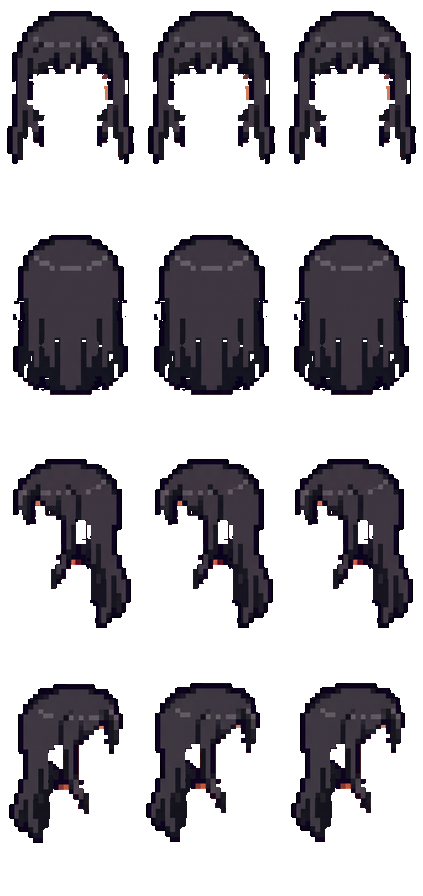
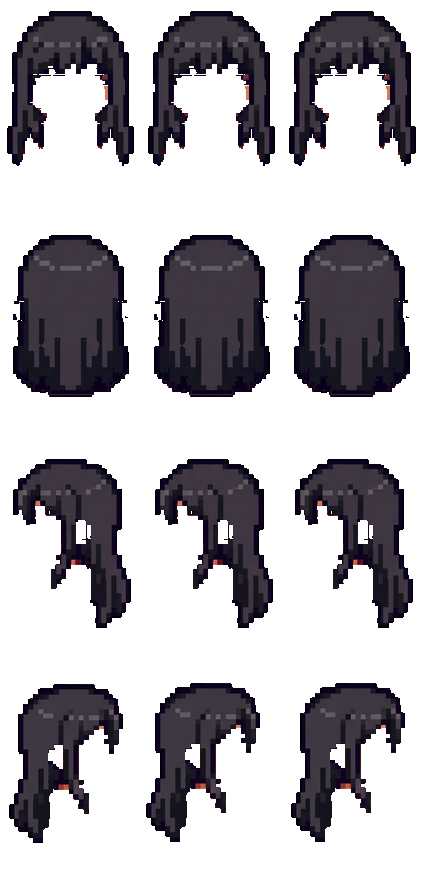
fix(char): 긴 생머리 정면 앞머리 / 후면 하단 - 원본에서 3673px 복원 (sw v268)
대표: "정면 앞머리가 쥐 파먹은 것 같고, 뒷머리 하단부가 검게 그을려 있다. 앞뒤만 고쳐달라."

진단 (char/diag_long_hair.py):
- 두 결함 다 원인은 같다 = **원본에 있던 머리카락의 누락**. 색 문제가 아니다.
  정면 4046px / 후면 2485px 가 원본 대비 빠져 있었다.
- "그을림"의 정체 = 후면 하단(rel y120~160)에서 밝은 머리카락이 빠지고 어두운 외곽선만
  남아 밝기가 35.5 -> 31.3 으로 내려갔다. 색을 밝히는 게 아니라 빠진 걸 되찾아야 한다.

★지표를 한 번 잘못 재고 고쳤다: 원본 시트의 알파는 '캐릭터 전체'(몸·옷 포함)라
  그대로 비교하면 20758px 로 뻥튀기된다. **머리색 밝기 상한을 우리 레이어의 색 분포에서
  유도해서**(99퍼센타일+10 = 107) 머리카락만 골라야 비교가 성립한다.
  이 방식을 restore_from_source.py 에 넣었다 — is_skin 만 빼던 기존 방식은 옷을 딸려온다.

조치: 정면·후면만 복원(--rows 0,1). 좌·우는 대표가 이미 손봐서 건드리지 않았다.
  정면 1902px + 후면 1771px 되찾음. 얼굴·귀(base 영역지도 KEEP)는 그대로 보호.
  후면 3열이 어긋나(16029/16050/16141) replicate_cols 로 통일.
  내부 구멍 4방향 전부 0. 썸네일 재생성.

diff --git a/index.html b/index.html
@@ -1,5 +1,5 @@
 <!DOCTYPE html>
-<!-- cache-bust: v20260731005 -->
+<!-- cache-bust: v20260731006 -->
 <html lang="ko">
 <head>
 <meta charset="UTF-8">
@@ -2041,7 +2041,7 @@ window.CHAR_ITEMS = [
   { id: 'shoes_black', slot: 'shoes', body: 'human', name: '검정 러닝화', price: 0, sheet: 'char/items/shoes_black.png', thumb: 'char/items/shoes_black_thumb.png' }
 ];
 // 아이템 이미지 캐시버전 — 아이템 시트/썸네일 바꿀 때마다 올리면 SW 캐시 무시하고 새로 받음
-window._ITEM_V = 84;
+window._ITEM_V = 85;
 window._iv = function (u) { return u ? (u + (u.indexOf('?') < 0 ? '?v=' : '&v=') + (window._ITEM_V || 1)) : u; };
 window.CHAR_FREE = ['hair_short', 'top_tee', 'mask_simple'];
 window.CHAR_SHAPES = {

diff --git a/sw.js b/sw.js
@@ -1,7 +1,7 @@
 // 배포마다 이 버전을 올려야 자동 새버전 적용(새로고침)이 동작함
-const CACHE_NAME = 'murpy-v267';
-const STATIC_CACHE = 'murpy-static-v267';
-const CDN_CACHE = 'murpy-cdn-v267';
+const CACHE_NAME = 'murpy-v268';
+const STATIC_CACHE = 'murpy-static-v268';
+const CDN_CACHE = 'murpy-cdn-v268';
 // 이미지 캐시는 버전 안 붙임 → 코드/HTML 배포해도 유지(URL이 곧 버전)
 const IMG_CACHE = 'murpy-img';
 

diff --git a/char/diag_long_hair.py b/char/diag_long_hair.py
@@ -1,0 +1,86 @@
+# -*- coding: utf-8 -*-
+"""긴 생머리 정면 앞머리 / 후면 하단 '그을림'의 정체를 잰다.
+
+대표: "정면 앞머리쪽이 쥐 파먹은 것 같고, 뒷머리 하단부가 검게 그을려 있다."
+
+두 결함은 성격이 다를 수 있다:
+  - 앞머리  = 원본에 있는 머리카락이 **빠진 것**(알파 누락)
+  - 그을림  = 알파는 맞는데 **색이 어두워진 것**(RGB 차이)
+어느 쪽인지 갈라야 고치는 방법이 정해진다.
+
+    python char/diag_long_hair.py
+"""
+import os
+import sys
+
+import numpy as np
+from PIL import Image
+
+sys.path.insert(0, os.path.dirname(os.path.abspath(__file__)))
+from build_hair_layer import (BALD_F, NUKKI, CW, CH, ALPHA_BIN,   # noqa: E402
+                              Norm, load, pad_img, binarize)
+
+HERE = os.path.dirname(os.path.abspath(__file__))
+NAME = "hair_f_long.png"
+SRC = os.path.join(NUKKI, "여자 검정생머리_clean-Photoroom.png")
+
+
+def main():
+    walk = np.asarray(Image.open(os.path.join(HERE, "walk_female.png"))
+                      .convert("RGBA")).astype(int)
+    cur = np.asarray(Image.open(os.path.join(HERE, "items", NAME)).convert("RGBA")).astype(int)
+    norm = Norm(load(BALD_F))
+    src_pad = pad_img(load(SRC))
+
+    # ★원본 알파는 '캐릭터 전체'(몸·옷 포함)다. 머리카락만 골라야 비교가 성립한다.
+    #   긴 생머리는 검정이므로 어두운 픽셀로 고른다. 우리 레이어의 실제 머리색 분포로 임계를 잡는다.
+    cur_all = np.asarray(Image.open(os.path.join(HERE, "items", NAME)).convert("RGBA")).astype(int)
+    hm = cur_all[:, :, 3] >= ALPHA_BIN
+    lum_hair = cur_all[hm][:, :3].mean(axis=1)
+    DARK = float(np.percentile(lum_hair, 99)) + 10
+    print(f"머리색 밝기: 중앙 {np.median(lum_hair):.0f} / 99퍼센타일 {np.percentile(lum_hair,99):.0f}"
+          f" → 원본에서 '머리카락'으로 볼 임계 = 밝기 < {DARK:.0f}")
+
+    for r, label in [(0, "정면"), (1, "후면")]:
+        worn = binarize(norm.cell(src_pad, r, 0))
+        wm = (worn[:, :, 3] >= ALPHA_BIN) & (worn[:, :, :3].mean(axis=2) < DARK)
+        hc = cur[r * CH:(r + 1) * CH, 0:CW]
+        h = hc[:, :, 3] >= ALPHA_BIN
+        bm = walk[r * CH:(r + 1) * CH, 0:CW, 3] >= ALPHA_BIN
+        top = int(np.where(bm.any(axis=1))[0].min())
+
+        print(f"\n■ {label}  원본 헤어 {int(wm.sum())}px / 현재 {int(h.sum())}px")
+        print(f"   원본에만 있음 {int((wm & ~h).sum())}px · 현재에만 있음 {int((h & ~wm).sum())}px")
+
+        both = wm & h
+        if both.any():
+            d = np.abs(worn[both][:, :3] - hc[both][:, :3]).sum(axis=1)
+            print(f"   둘 다 있는 자리 {int(both.sum())}px 의 색 차이: 평균 {d.mean():.1f}"
+                  f" · 24 초과(눈에 보임) {100.0 * (d > 24).mean():.0f}%")
+            # 우리 것이 더 어두운가?
+            lum_w = worn[both][:, :3].mean(axis=1)
+            lum_c = hc[both][:, :3].mean(axis=1)
+            print(f"   밝기: 원본 {lum_w.mean():.1f} → 현재 {lum_c.mean():.1f}"
+                  f"  (현재가 더 어두운 픽셀 {100.0 * (lum_c < lum_w - 8).mean():.0f}%)")
+
+        # 세로 구간별 — '하단부만 그을렸나' 확인
+        print("   상대y 구간별  [원본에만 |  더 어두워진 |  밝기 원본→현재]")
+        for lo, hi in [(0, 40), (40, 80), (80, 120), (120, 160), (160, 213)]:
+            band = np.zeros_like(h)
+            y0, y1 = min(top + lo, CH), min(top + hi, CH)
+            if y0 >= y1:
+                continue
+            band[y0:y1] = True
+            miss = int((wm & ~h & band).sum())
+            bb = both & band
+            if bb.any():
+                lw = worn[bb][:, :3].mean(axis=1).mean()
+                lc = hc[bb][:, :3].mean(axis=1).mean()
+                dark = int(((hc[bb][:, :3].mean(axis=1) < worn[bb][:, :3].mean(axis=1) - 8)).sum())
+                print(f"     y{lo:3d}~{hi:<3d}  {miss:5d}px  |  {dark:5d}px  |  {lw:5.1f} → {lc:5.1f}")
+            else:
+                print(f"     y{lo:3d}~{hi:<3d}  {miss:5d}px  |      - |    -")
+
+
+if __name__ == "__main__":
+    main()

diff --git a/char/diag_color_noise.py b/char/diag_color_noise.py
@@ -1,0 +1,92 @@
+# -*- coding: utf-8 -*-
+"""AI 생성 픽셀아트가 '진짜 픽셀아트'와 얼마나 다른지 색으로 잰다.
+
+대표(7-31): "AI로 만든 픽셀아트는 픽셀마다 색이 미묘하게 달라서, 에테르는 색부터
+최적화(픽셀화)해준다더라."
+
+우리 원본 시트가 실제로 그런지, 그리고 그게 우리 추출 실패와 어떻게 연결되는지 본다.
+  - 고유 색이 몇 개인가 (진짜 도트는 보통 8~32색)
+  - 그중 대부분을 덮는 '주요 색'은 몇 개인가
+  - 머리색과 base 외곽선색이 얼마나 가까운가 ← 차분 추출이 0이 되는 원인
+
+    python char/diag_color_noise.py
+"""
+import os
+import sys
+
+import numpy as np
+from PIL import Image
+
+sys.path.insert(0, os.path.dirname(os.path.abspath(__file__)))
+from build_hair_layer import (BALD_F, NUKKI, FBASIC, MHAIR, CW, CH, ALPHA_BIN,   # noqa: E402
+                              Norm, load, pad_img, binarize)
+
+HERE = os.path.dirname(os.path.abspath(__file__))
+
+CASES = [
+    ("여자 긴생머리(원본)", os.path.join(NUKKI, "여자 검정생머리_clean-Photoroom.png")),
+    ("여자 단발(원본)", os.path.join(NUKKI, "여자 검정단발머리_clean-Photoroom.png")),
+    ("여자 기본머리(원본)", os.path.join(FBASIC, "여자기본머리_clean-Photoroom.png")),
+    ("세미리프컷(원본)", os.path.join(MHAIR, "세미리프컷_clean-Photoroom.png")),
+]
+
+
+def stats(label, arr, alpha_min=ALPHA_BIN):
+    m = arr[:, :, 3] >= alpha_min
+    px = arr[m][:, :3]
+    if not len(px):
+        print(f"  {label}: 비어있음")
+        return
+    uniq, cnt = np.unique(px, axis=0, return_counts=True)
+    order = np.argsort(-cnt)
+    cum = np.cumsum(cnt[order]) / cnt.sum()
+    n90 = int(np.searchsorted(cum, 0.90) + 1)
+    n99 = int(np.searchsorted(cum, 0.99) + 1)
+    print(f"  {label}: 픽셀 {len(px):,}  고유색 {len(uniq):,}개"
+          f"  · 90%를 덮는 색 {n90}개 · 99% {n99}개")
+    top = [f"({uniq[order[i]][0]},{uniq[order[i]][1]},{uniq[order[i]][2]})×{cnt[order[i]]}"
+           for i in range(min(4, len(uniq)))]
+    print(f"      최빈 4색: " + "  ".join(top))
+    return uniq, cnt, order
+
+
+def main():
+    print("■ 원본 시트(AI 생성물) 색 분포 — 진짜 도트라면 고유색이 수십 개여야 한다\n")
+    for label, p in CASES:
+        if not os.path.exists(p):
+            print(f"  {label}: 파일 없음")
+            continue
+        a = np.asarray(Image.open(p).convert("RGBA")).astype(int)
+        stats(label, a)
+        print()
+
+    print("■ 우리가 이미 추출한 앱 레이어 (참고)\n")
+    for n in ["hair_f_long.png", "hair_m_semileaf.png"]:
+        a = np.asarray(Image.open(os.path.join(HERE, "items", n)).convert("RGBA")).astype(int)
+        stats(n, a)
+        print()
+
+    print("■ ★차분 추출이 0이 되는 자리 — 머리색과 base 외곽선색의 거리\n")
+    walk_f = np.asarray(Image.open(os.path.join(HERE, "walk_female.png"))
+                        .convert("RGBA")).astype(int)
+    norm = Norm(load(BALD_F))
+    src = pad_img(load(os.path.join(NUKKI, "여자 검정생머리_clean-Photoroom.png")))
+    worn = binarize(norm.cell(src, 0, 0))
+    bc = walk_f[0:CH, 0:CW]
+
+    bm = bc[:, :, 3] >= ALPHA_BIN
+    dark_base = bm & (bc[:, :, 0] < 70) & (bc[:, :, 1] < 70) & (bc[:, :, 2] < 70)
+    wm = worn[:, :, 3] >= ALPHA_BIN
+    dark_hair = wm & (worn[:, :, 0] < 70) & (worn[:, :, 1] < 70) & (worn[:, :, 2] < 70)
+    both = dark_base & dark_hair
+    print(f"  base 어두운 픽셀 {int(dark_base.sum())} · 원본 어두운 픽셀 {int(dark_hair.sum())}"
+          f" · 겹치는 자리 {int(both.sum())}")
+    if both.any():
+        d = np.abs(bc[both][:, :3] - worn[both][:, :3]).sum(axis=1)
+        print(f"  겹치는 자리의 색 차이: 평균 {d.mean():.1f} · 중앙값 {np.median(d):.0f}"
+              f" · 임계(DIFF_T=40) 미만 {100.0 * (d < 40).mean():.0f}%")
+        print(f"  → 이 비율만큼이 '차분 0'으로 통째로 빠진다. 검은 머리가 특히 심한 이유다.")
+
+
+if __name__ == "__main__":
+    main()

diff --git a/char/diag_vs_source.py b/char/diag_vs_source.py
@@ -1,0 +1,74 @@
+# -*- coding: utf-8 -*-
+"""원본 시트(정규화)와 현재 앱 상태를 방향별로 나란히 크게 본다.
+
+대표가 "원본이랑 비슷하게 해달라"고 할 때 **무엇이 다른지 먼저 눈으로 확인**하려고 쓴다.
+
+    python char/diag_vs_source.py hair_f_long.png human_f 0 1
+"""
+import os
+import sys
+
+import numpy as np
+from PIL import Image, ImageDraw, ImageFont
+
+sys.path.insert(0, os.path.dirname(os.path.abspath(__file__)))
+from build_hair_layer import (BALD_M, BALD_F, MHAIR, NUKKI, FBASIC, CW, CH,   # noqa: E402
+                              ALPHA_BIN, Norm, load, pad_img, binarize)
+
+HERE = os.path.dirname(os.path.abspath(__file__))
+ROWS = ["정면", "후면", "좌", "우"]
+BASEW = {"human": "walk.png", "human_f": "walk_female.png"}
+BALD = {"human": BALD_M, "human_f": BALD_F}
+SOURCE = {
+    "hair_f_long.png": os.path.join(NUKKI, "여자 검정생머리_clean-Photoroom.png"),
+    "hair_f_bob_bang.png": os.path.join(NUKKI, "여자 검정단발머리_clean-Photoroom.png"),
+    "hair_f_basic.png": os.path.join(FBASIC, "여자기본머리_clean-Photoroom.png"),
+    "hair_m_basic.png": os.path.join(MHAIR, "남자기본헤어_clean-Photoroom.png"),
+    "hair_m_semileaf.png": os.path.join(MHAIR, "세미리프컷_clean-Photoroom.png"),
+}
+SCALE = 5
+
+
+def over(dst, src):
+    out = dst.copy()
+    m = src[:, :, 3] >= ALPHA_BIN
+    out[m] = src[m]
+    out[m, 3] = 255
+    return out
+
+
+def main():
+    name, body = sys.argv[1], sys.argv[2]
+    rows = [int(x) for x in sys.argv[3:]] or [0, 1, 2, 3]
+    walk = np.asarray(Image.open(os.path.join(HERE, BASEW[body])).convert("RGBA")).astype(int)
+    cur = np.asarray(Image.open(os.path.join(HERE, "items", name)).convert("RGBA")).astype(int)
+    norm = Norm(load(BALD[body]))
+    src_pad = pad_img(load(SOURCE[name]))
+
+    tiles = []
+    for r in rows:
+        worn = binarize(norm.cell(src_pad, r, 0))
+        bc = walk[r * CH:(r + 1) * CH, 0:CW]
+        tiles.append((f"{ROWS[r]} 원본", worn))
+        tiles.append((f"{ROWS[r]} 현재", over(bc, cur[r * CH:(r + 1) * CH, 0:CW])))
+
+    pad, lbl = 8, 28
+    canvas = Image.new("RGB", ((CW + pad) * len(tiles) + pad, CH + lbl + pad * 2), (248, 248, 248))
+    for i, (_t, a) in enumerate(tiles):
+        canvas.paste(Image.fromarray(a.astype(np.uint8), "RGBA").convert("RGB"),
+                     (pad + i * (CW + pad), lbl + pad))
+    big = canvas.resize((canvas.width * SCALE, canvas.height * SCALE), Image.NEAREST)
+    d = ImageDraw.Draw(big)
+    try:
+        font = ImageFont.truetype("C:/Windows/Fonts/malgunbd.ttf", 32)
+    except OSError:
+        font = ImageFont.load_default()
+    for i, (t, _a) in enumerate(tiles):
+        d.text(((pad + i * (CW + pad)) * SCALE, 8), t, fill=(20, 20, 20), font=font)
+    p = os.path.join(HERE, "_diag", f"vs_source_{name}")
+    big.save(p)
+    print(f"-> {p}")
+
+
+if __name__ == "__main__":
+    main()

diff --git a/char/restore_from_source.py b/char/restore_from_source.py
@@ -39,6 +39,7 @@ BASEW = {"human": "walk.png", "human_f": "walk_female.png"}
 BALD = {"human": BALD_M, "human_f": BALD_F}
 GROW = 2          # 기존 헤어에서 이만큼 안에 붙어 있는 것만 되살린다
 CLOSE = 3         # 실루엣 안쪽으로 파인 자리만 (0이면 끔). --close 로 바꾼다
+ROWSEL = []       # 특정 방향만 (--rows 0,1). 비면 전 방향
 
 SOURCE = {
     "hair_f_long.png": os.path.join(NUKKI, "여자 검정생머리_clean-Photoroom.png"),
@@ -56,6 +57,18 @@ def is_skin(a):
     return (R >= SKIN_R) & (R > G + 20) & (G > B)
 
 
+def hair_lum_max(layer):
+    """'원본에서 무엇이 머리카락인가'를 **우리 레이어의 실제 색 분포**에서 유도한다.
+
+    ★살색만 빼는 방식(is_skin)은 옷·소품까지 머리카락으로 본다. 긴 생머리처럼 몸을 덮는
+      헤어에서 옷이 딸려 들어온다. 밝기 상한을 우리 레이어에서 재는 쪽이 안전하다.
+    """
+    m = layer[:, :, 3] >= ALPHA_BIN
+    if not m.any():
+        return 255.0
+    return float(np.percentile(layer[m][:, :3].mean(axis=1), 99)) + 10
+
+
 def run(name, body, apply=False, check=None):
     walk = np.asarray(Image.open(os.path.join(HERE, BASEW[body])).convert("RGBA")).astype(int)
     norm = Norm(load(BALD[body]))
@@ -66,12 +79,16 @@ def run(name, body, apply=False, check=None):
     a = np.asarray(Image.open(start).convert("RGBA")).astype(int)
     out = a.copy()
 
-    print(f"■ {name}  (시작 {os.path.basename(start)})")
+    lum_max = hair_lum_max(a)
+    rows = ROWSEL if ROWSEL else list(range(4))
+    print(f"■ {name}  (시작 {os.path.basename(start)})  머리색 밝기상한 {lum_max:.0f}"
+          f"  대상 방향 {[ROWS[r] for r in rows]}")
     total = 0
-    for r in range(4):
+    for r in rows:
         sc = 0 if name in FORCE_COL0 else 0        # 원본은 방향당 1프레임만 쓴다
         worn = binarize(norm.cell(src_pad, r, sc))
-        wm = (worn[:, :, 3] >= ALPHA_BIN) & ~is_skin(worn)
+        wm = ((worn[:, :, 3] >= ALPHA_BIN) & ~is_skin(worn)
+              & (worn[:, :, :3].mean(axis=2) < lum_max))
         got = 0
         for c in range(3):
             bc = walk[r * CH:(r + 1) * CH, c * CW:(c + 1) * CW]
@@ -125,9 +142,11 @@ def main():
         print(__doc__)
         return
     check = sys.argv[sys.argv.index("--check") + 1] if "--check" in sys.argv else None
+    global CLOSE, ROWSEL
     if "--close" in sys.argv:
-        global CLOSE
         CLOSE = int(sys.argv[sys.argv.index("--close") + 1])
+    if "--rows" in sys.argv:
+        ROWSEL = [int(x) for x in sys.argv[sys.argv.index("--rows") + 1].split(",")]
     run(sys.argv[1], sys.argv[2], "--apply" in sys.argv, check)
 
 
